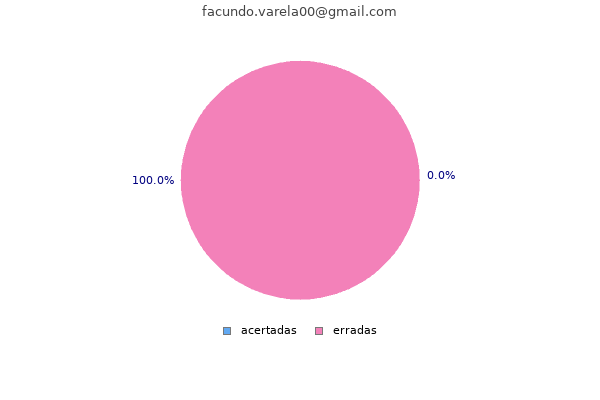
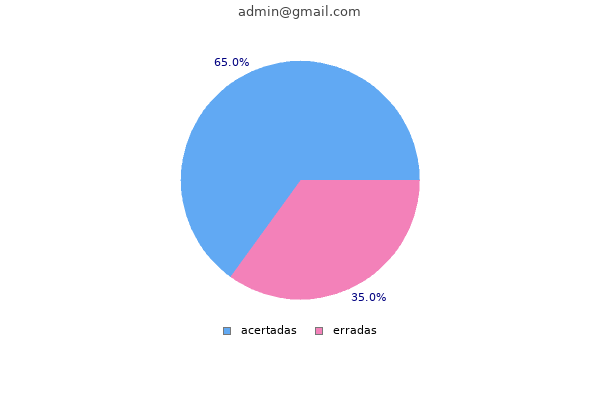
Version 3.3.11 Admin 75%

Changed region(s): [[0.21, 0.15, 0.78, 0.69], [0.33, 0.0, 0.66, 0.06], [0.57, 0.72, 0.66, 0.75]]

diff --git a/controller/homeAdminController.php b/controller/homeAdminController.php
@@ -14,7 +14,17 @@ class homeAdminController
     public function execute()
     {
         if (isset($_SESSION['correo'])&&(isset($_SESSION['rolActual']))&&$_SESSION['rolActual']==1){
-            $this->usuarios();
+            $cantidadUsuarios=$this->modelo->verCantidadUsuarios();
+            $usuarios=$this->modelo->verUsuarios();
+            $cantidadPreguntas=$this->modelo->verCantidadPreguntas();
+            $preguntas=$this->modelo->verPreguntas();
+            $data = [
+                'cantidadUsuarios'=>$cantidadUsuarios,
+                'usuarios'=>$usuarios,
+                'cantidadPreguntas'=>$cantidadPreguntas,
+                'preguntas'=>$preguntas,
+            ];
+            $this->renderizado->render('/homeAdmin',$data);
             exit();
         }
         else{
@@ -25,12 +35,10 @@ class homeAdminController
     public function usuarios(){
         $usuarios= $this->modelo->verUsuarios();
         $correos = array_column($usuarios, 'mail');
+
         $graficoPorcentajeAcertadasPorUsuario=$this->acertadasPorUsuario();
-
         $graficoCantidadUsuariosPorPais=$this->graficoCantidadUsuariosPorPais();
-
         $graficoCantidadUsuariosPorGenero=$this->graficoCantidadUsuariosPorGenero();
-
         $graficoCantidadUsuariosPorGrupoEdad=$this->graficoCantidadUsuariosPorGrupoEdad();
 
         $data = [
@@ -45,24 +53,23 @@ class homeAdminController
         exit();
     }
     public function preguntas(){
-
-        /*$preguntas=$this->modelo->verPreguntas();*/
-
+        $cantidadPartidasJugadas=$this->modelo->verCantidadPartidasJugadas();
         $cantidadTotalPreguntas=$this->modelo->verCantidadPreguntas();
-
         $graficoPreguntasPorCategoria=$this->graficoPreguntasPorCategoria();
 
         $data = [
             'cantidadTotalPreguntas'=>$cantidadTotalPreguntas,
             'graficoPreguntasPorCategoria'=>$graficoPreguntasPorCategoria,
-
+            'cantidadPartidasJugadas'=>$cantidadPartidasJugadas,
         ];
 
         $this->renderizado->render('/preguntasDB',$data);
     }
 
     public function acertadasPorUsuario(){
+
         if(!isset($_POST['correo'])){
+
             $usuario="admin@gmail.com";
         }else{
             $usuario=$_POST['correo'];
@@ -74,11 +81,12 @@ class homeAdminController
         $datos = [
             'acertadas'=>$acertadas,
             'erradas'=>$erradas,
-
         ];
+
         return $this->graficoPorcentajeAcertadasPorUsuario($usuario,$datos);
     }
     public function graficoPorcentajeAcertadasPorUsuario($usuario,$datos){
+
         $resultado = $datos;
 
         $grafico = new PieGraph(600, 400);
@@ -96,7 +104,6 @@ class homeAdminController
         if (file_exists($rutaFinal)) {
             unlink($rutaFinal);
         }
-
         $grafico->Stroke($rutaFinal);
 
         return $nombreArchivo;

diff --git a/model/homeAdminModel.php b/model/homeAdminModel.php
@@ -15,7 +15,7 @@ class homeAdminModel
         return $resultado;
     }
     public function verUsuarios(){
-        $sql="SELECT mail FROM usuarios";
+        $sql="SELECT * FROM usuarios";
         $resultado=$this->database->query($sql);
 
         return $resultado;
@@ -85,7 +85,17 @@ class homeAdminModel
         return $edad->y; // 'y' representa el número de años en la diferencia
     }
     public function verCantidadPartidasJugadas(){
-            //AGREGAR TABLA DE PARTIDAS? CON CADA UNA DE LOS DATOS DE LA MISMA Y QUIEN LA JUGÓ?
+        $sql = "SELECT puntajesPorPartida FROM ranking";
+        $resultado = $this->database->query($sql);
+        $totalPartidas = 0;
+
+        foreach ($resultado as $fila) {
+            $puntajes = json_decode($fila['puntajesPorPartida']);
+            if (is_array($puntajes)) {
+                $totalPartidas += count($puntajes);
+            }
+        }
+        return $totalPartidas;
     }
     public function verPreguntas(){
         $sql="SELECT * FROM preguntas";
